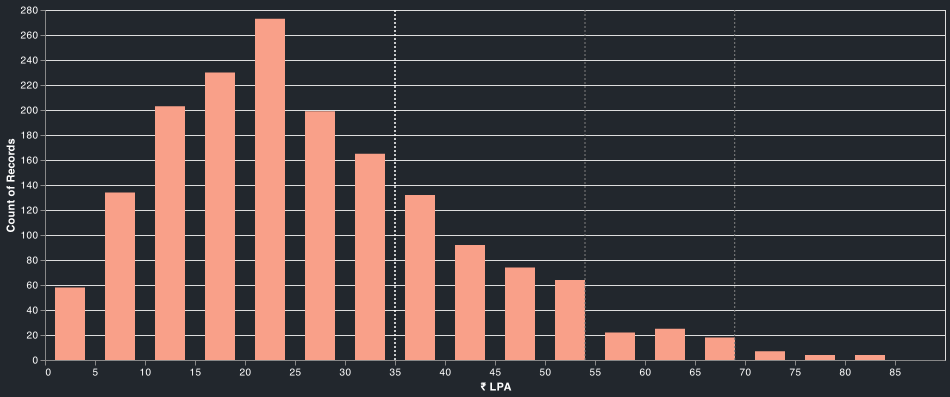
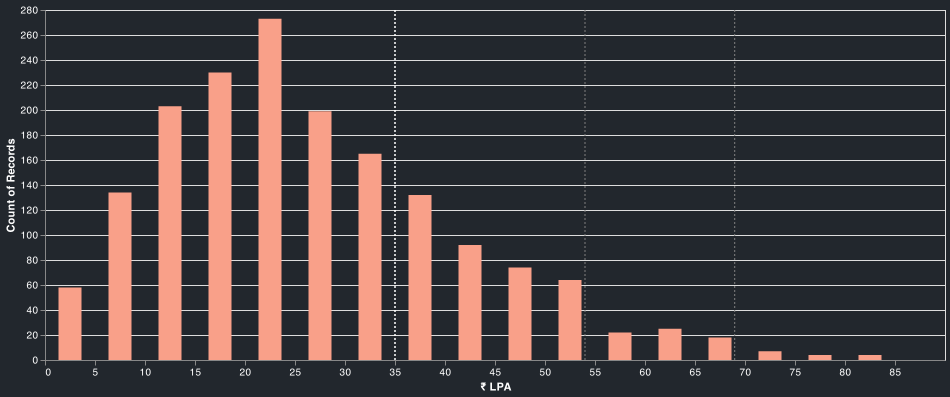
updated reports

Changed region(s): [[0.0305, 0.0605, 0.8547, 0.9068]]

diff --git a/reports/plots_tc.py b/reports/plots_tc.py
@@ -40,8 +40,8 @@ p75, p95, p99 = (
 pdf = pd.DataFrame({'p75': [p75], 'p95': [p95], 'p99': [p99]})
 
 # salary distribution ----------------------------------------------------------
-bar = alt.Chart(df).mark_bar(size=30).encode(
-    x=alt.X('lpa', bin=alt.Bin(maxbins=40), title="₹ LPA"),
+bar = alt.Chart(df).mark_bar(size=23).encode(
+    x=alt.X('lpa', bin=alt.Bin(maxbins=35), title="₹ LPA"),
     y=alt.Y('count()', axis=alt.Axis(title="Count of Records")),
     color=alt.value(LIGHT_BAR),
 ).properties(width=900, height=350)
@@ -52,8 +52,8 @@ final_bar = (bar + rule1 + rule2 + rule3)
 final_bar.save(f'{IMGS_DIR}/salary_distribution_total.png')
 
 # dark mode
-bar = alt.Chart(df).mark_bar(size=30).encode(
-    x=alt.X('lpa', bin=alt.Bin(maxbins=40), title="₹ LPA"),
+bar = alt.Chart(df).mark_bar(size=23).encode(
+    x=alt.X('lpa', bin=alt.Bin(maxbins=35), title="₹ LPA"),
     y=alt.Y('count()', axis=alt.Axis(title="Count of Records")),
     color=alt.value(DARK_BAR),
 ).properties(width=900, height=350)

diff --git a/reports/report_dark_total.py b/reports/report_dark_total.py
@@ -4,6 +4,7 @@ from utils.constant import IMGS_DIR, REPORTS_DIR
 
 # data
 df = get_clean_records_for_india()
+df = df.loc[df["salary_total"] != -1, :]
 min_date, max_date = df["date"].min().replace("/", "_"), df["date"].max().replace("/", "_")
 
 with open(f"{REPORTS_DIR}/report_{min_date}_to_{max_date}_dark_tc.md", "w") as f:

diff --git a/reports/report_total.py b/reports/report_total.py
@@ -4,6 +4,7 @@ from utils.constant import IMGS_DIR, REPORTS_DIR
 
 # data
 df = get_clean_records_for_india()
+df = df.loc[df["salary_total"] != -1, :]
 min_date, max_date = df["date"].min().replace("/", "_"), df["date"].max().replace("/", "_")
 
 with open(f"{REPORTS_DIR}/report_{min_date}_to_{max_date}_tc.md", "w") as f:

diff --git a/data/reports/report_2019_01_05_to_2021_08_04_dark_tc.md b/data/reports/report_2019_01_05_to_2021_08_04_dark_tc.md
@@ -1,5 +1,5 @@
 ## Notes
-- Reports are generated from `1963` records collected from `2019_01_05` to `2021_08_04`.
+- Reports are generated from `1704` records collected from `2019_01_05` to `2021_08_04`.
 - Filtered for `India`.<br>
 - Salary mentioned in the reports is the `total salary`.<br>
 - Vertical lines in some of the charts indicate the `75th`, `95th` and the `99th` percentile of the `fixed salaries`.<br>

diff --git a/data/reports/report_2019_01_05_to_2021_08_04_tc.md b/data/reports/report_2019_01_05_to_2021_08_04_tc.md
@@ -1,5 +1,5 @@
 ## Notes
-- Reports are generated from `1963` records collected from `2019_01_05` to `2021_08_04`.
+- Reports are generated from `1704` records collected from `2019_01_05` to `2021_08_04`.
 - Filtered for `India`.<br>
 - Salary mentioned in the reports is the `total salary`.<br>
 - Vertical lines in some of the charts indicate the `75th`, `95th` and the `99th` percentile of the `fixed salaries`.<br>
